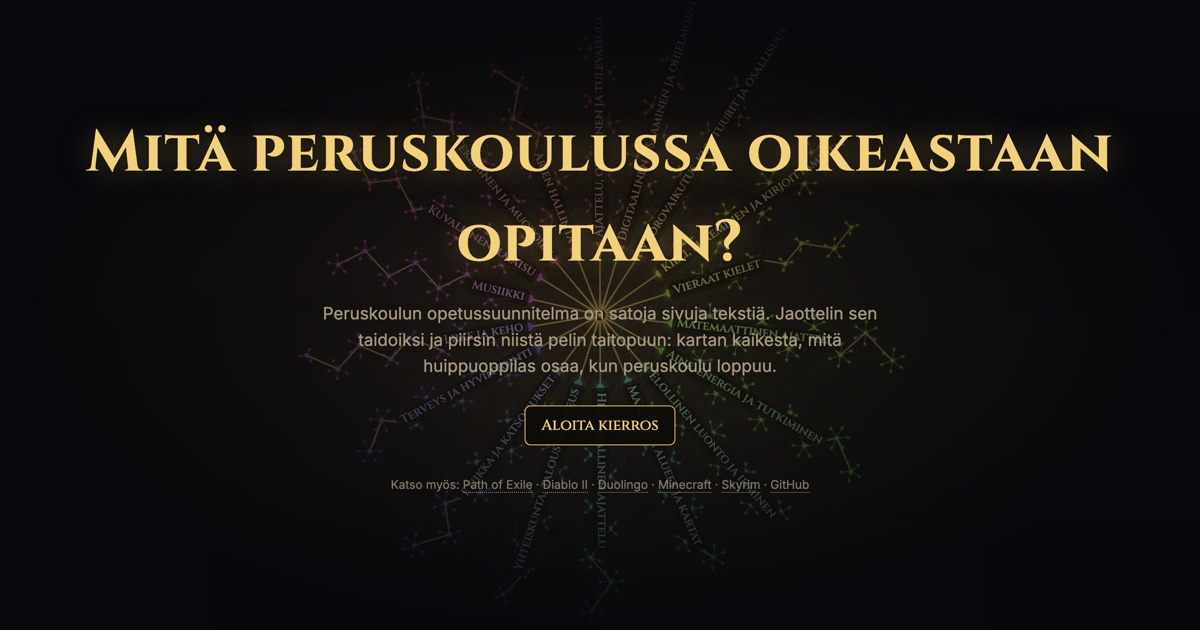
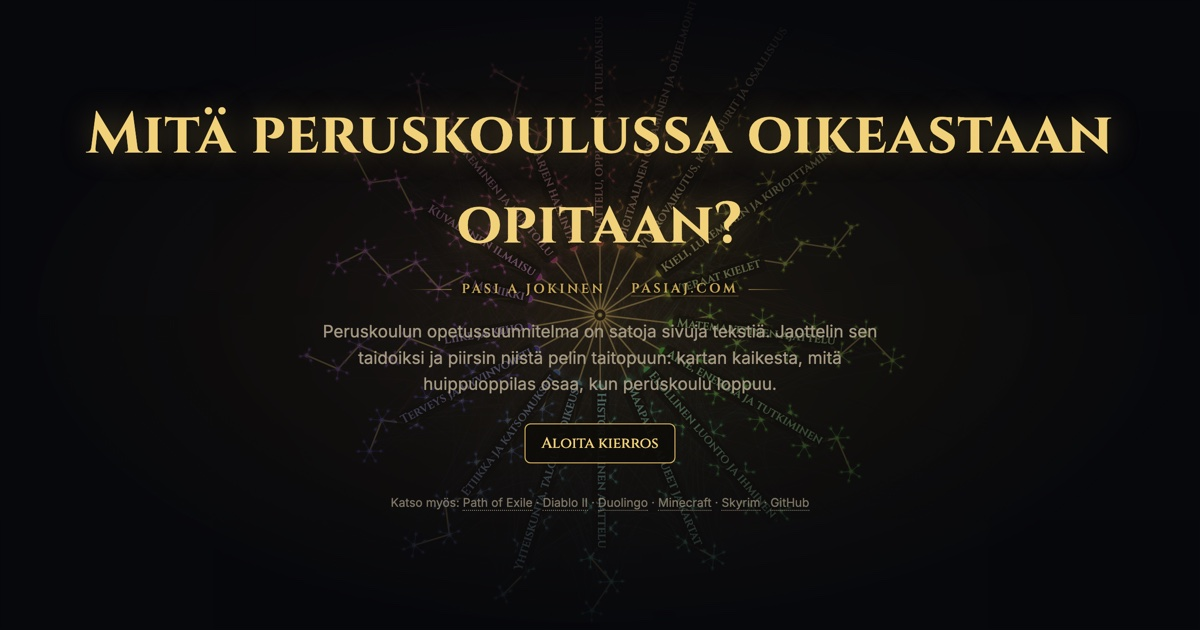
Esittely: tekijärivi pääotsikon alle, some-kuva päivitetty
Pasi pyysi (2026-10-05) siirtämään esittelysivun "Pasi A Jokinen ·
pasiaj.com" heti pääotsikon alle ja antamaan sille paikkaan sopivan
tyylin. Tyyli: Cinzel-kapiteelit otsikon kultaisessa sävyssä, väljä
harvennus, ohuet häivytetyt viivat molemmin puolin ja tumma varjo
taustan puuta vasten. Rivi poistui painikkeen alta.

some.jpg otettiin uudelleen (esittely/?kuva), koska aloitusruutu muuttui.
Somepalvelut näyttävät uuden kuvan vasta välimuistin vanhennuttua.

Changed region(s): [[0.2775, 0.4524, 0.74, 0.8143], [0.0617, 0.1508, 0.925, 0.2714], [0.37, 0.3016, 0.6167, 0.4222]]

diff --git a/peruskoulu/esittely/index.html b/peruskoulu/esittely/index.html
@@ -63,6 +63,13 @@ h1, h2, .cz { font-family: Cinzel, Georgia, serif; letter-spacing: .02em; }
 #intro { position: fixed; inset: 0; display: grid; place-items: center; text-align: center; background: radial-gradient(ellipse at center, rgba(40,32,18,.55), rgba(7,8,11,.96) 70%); z-index: 4; transition: opacity 1s; padding: 24px; }
 #intro.gone { opacity: 0; pointer-events: none; }
 #intro h1 { font-size: clamp(30px, 6vw, 58px); margin: 0 0 12px; color: var(--gold-2); text-shadow: 0 0 30px rgba(217,180,92,.35); }
+/* tekijärivi pääotsikon alla: pieni kapiteeli kultaisen otsikon sävyssä, ohuet viivat sivuilla */
+#intro .byl { display: flex; align-items: center; justify-content: center; gap: 10px; margin: 2px auto 22px; font: 600 13px/1 Cinzel, Georgia, serif; letter-spacing: .22em; text-transform: uppercase; color: var(--gold); opacity: .9; text-shadow: 0 0 10px #000, 0 0 3px #000; }
+#intro .byl::before, #intro .byl::after { content: ""; width: 42px; height: 1px; background: linear-gradient(90deg, transparent, var(--gold)); opacity: .6; }
+#intro .byl::after { transform: scaleX(-1); }
+#intro .byl span { opacity: .5; }
+#intro .byl a { color: inherit; text-decoration: none; border-bottom: 1px solid rgba(217,180,92,.35); }
+#intro .byl a:hover { color: var(--gold-2); border-bottom-color: var(--gold-2); }
 #intro p { color: var(--muted); max-width: 560px; margin: 0 auto 26px; font-size: 17px; }
 #hud { position: fixed; top: 18px; right: 22px; text-align: right; pointer-events: none; }
 #hud .g { font-family: Cinzel, serif; font-size: 34px; color: var(--gold-2); text-shadow: 0 0 18px rgba(217,180,92,.4); }
@@ -101,9 +108,9 @@ body.kuva #skip, body.kuva #nav, body.kuva #hud { display: none !important; }
 <div id="intro">
   <div>
     <h1>Mitä peruskoulussa oikeastaan opitaan?</h1>
+    <div class="byl">Pasi A Jokinen <span>·</span> <a href="https://pasiaj.com/" rel="author">pasiaj.com</a></div>
     <p>Peruskoulun opetussuunnitelma on satoja sivuja tekstiä. Jaottelin sen taidoiksi ja piirsin niistä pelin taitopuun: kartan kaikesta, mitä huippuoppilas osaa, kun peruskoulu loppuu.</p>
     <button class="btn gold" id="start">Aloita kierros</button>
-    <p style="margin:18px auto 0;font-size:14px;color:var(--muted)">Pasi A Jokinen · <a href="https://pasiaj.com/" rel="author" style="color:var(--muted)">pasiaj.com</a></p>
     <p style="margin-top:28px;font-size:14px"><span data-katso></span></p>
   </div>
 </div>
